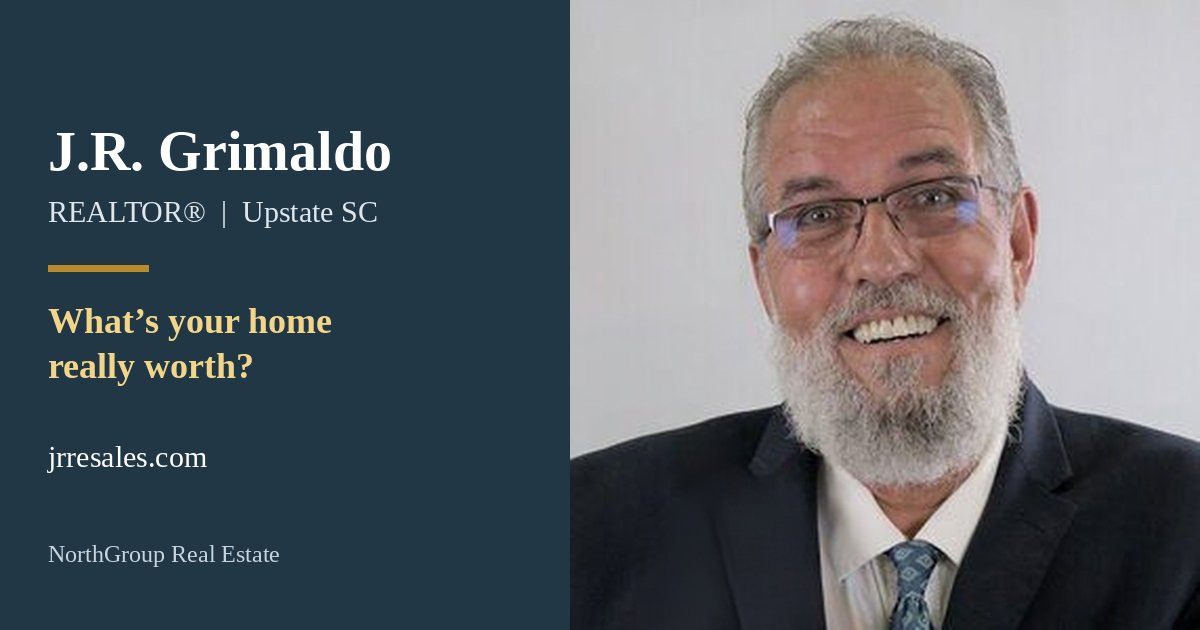
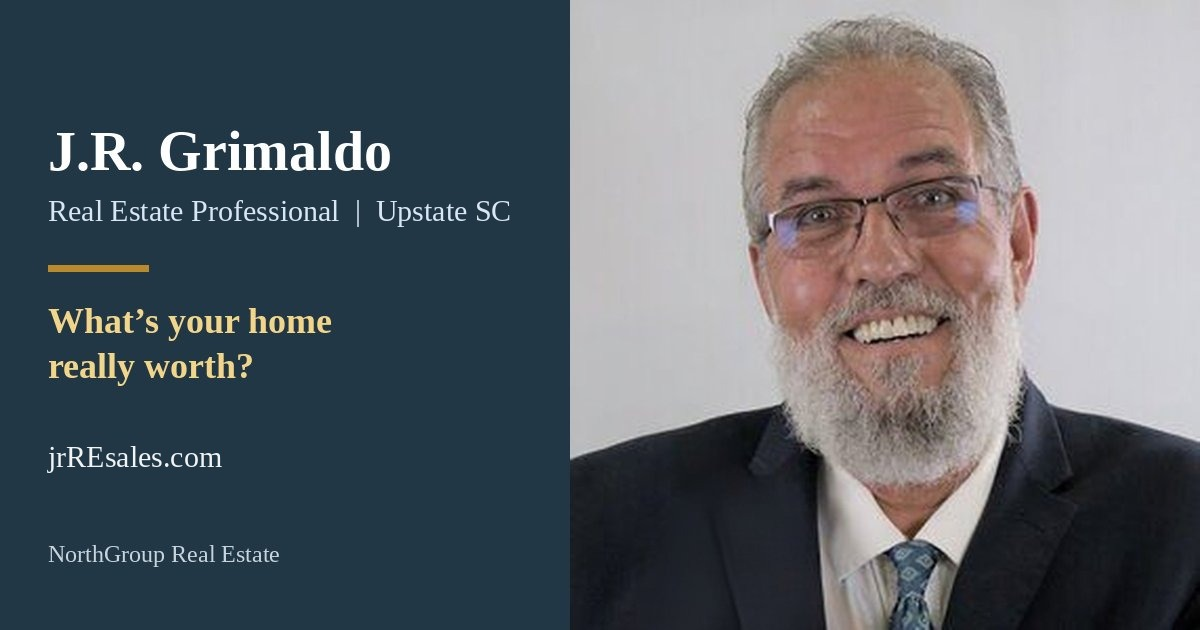
Real Estate Professional everywhere: fallback titles/descriptions in source, default share picture text; share.jpg gets a version tag
Claude-Session: https://claude.ai/code/session_016fS7kRdrNy9Bdoyz7H8ZFx

Changed region(s): [[0.0308, 0.3016, 0.4317, 0.3619], [0.0617, 0.6937, 0.185, 0.754]]

diff --git a/docs/free-book-expired.html b/docs/free-book-expired.html
@@ -9,7 +9,7 @@
 <meta property="og:site_name" content="J.R. Grimaldo, Real Estate Professional">
 <meta property="og:title" content="Free Book for Owners Whose Home Didn&#x27;t Sell – J.R. Grimaldo">
 <meta property="og:description" content="Free book &quot;Expired!?&quot; for owners whose home was listed and didn&#x27;t sell: why it happens and what to change. Mailed to you by J.R. Grimaldo, Landrum, SC.">
-<meta property="og:image" content="https://jrresales.com/assets/share.jpg">
+<meta property="og:image" content="https://jrresales.com/assets/share.jpg?v=f7b0df62">
 <meta property="og:image:width" content="1200"><meta property="og:image:height" content="630">
 <meta property="og:url" content="https://jrresales.com/free-book-expired.html">
 <link rel="canonical" href="https://jrresales.com/free-book-expired.html">

diff --git a/docs/es/free-book-expired.html b/docs/es/free-book-expired.html
@@ -9,7 +9,7 @@
 <meta property="og:site_name" content="J.R. Grimaldo, Real Estate Professional">
 <meta property="og:title" content="Libro gratis si su casa no se vendió – J.R. Grimaldo">
 <meta property="og:description" content="Libro gratis &quot;Expired!?&quot; (en inglés) para dueños cuya casa no se vendió: por qué pasa y qué cambiar. Se lo envía por correo J.R. Grimaldo, Landrum, SC.">
-<meta property="og:image" content="https://jrresales.com/assets/share.jpg">
+<meta property="og:image" content="https://jrresales.com/assets/share.jpg?v=f7b0df62">
 <meta property="og:image:width" content="1200"><meta property="og:image:height" content="630">
 <meta property="og:url" content="https://jrresales.com/es/free-book-expired.html">
 <link rel="canonical" href="https://jrresales.com/es/free-book-expired.html">

diff --git a/docs/es/free-book-sell-fast.html b/docs/es/free-book-sell-fast.html
@@ -9,7 +9,7 @@
 <meta property="og:site_name" content="J.R. Grimaldo, Real Estate Professional">
 <meta property="og:title" content="Libro gratis: How to Sell Homes Fast for Top Dollar">
 <meta property="og:description" content="Libro gratis (en inglés) para dueños que piensan vender: cómo preparar su casa, encontrar compradores y negociar. Se lo envía por correo J.R. Grimaldo.">
-<meta property="og:image" content="https://jrresales.com/assets/share.jpg">
+<meta property="og:image" content="https://jrresales.com/assets/share.jpg?v=f7b0df62">
 <meta property="og:image:width" content="1200"><meta property="og:image:height" content="630">
 <meta property="og:url" content="https://jrresales.com/es/free-book-sell-fast.html">
 <link rel="canonical" href="https://jrresales.com/es/free-book-sell-fast.html">

diff --git a/docs/es/free-books.html b/docs/es/free-books.html
@@ -9,7 +9,7 @@
 <meta property="og:site_name" content="J.R. Grimaldo, Real Estate Professional">
 <meta property="og:title" content="Guías y libros gratis para vender su casa – J.R. Grimaldo">
 <meta property="og:description" content="Guías y libros gratis para vender su casa, de J.R. Grimaldo en Landrum, SC: una guía de 8 páginas en español por correo electrónico y dos libros impresos.">
-<meta property="og:image" content="https://jrresales.com/assets/share.jpg">
+<meta property="og:image" content="https://jrresales.com/assets/share.jpg?v=f7b0df62">
 <meta property="og:image:width" content="1200"><meta property="og:image:height" content="630">
 <meta property="og:url" content="https://jrresales.com/es/free-books.html">
 <link rel="canonical" href="https://jrresales.com/es/free-books.html">

diff --git a/docs/boiling-springs.html b/docs/boiling-springs.html
@@ -9,7 +9,7 @@
 <meta property="og:site_name" content="J.R. Grimaldo, Real Estate Professional">
 <meta property="og:title" content="Sell Your Home in Boiling Springs, SC – J.R. Grimaldo">
 <meta property="og:description" content="J.R. Grimaldo has helped folks buy and sell homes in Boiling Springs, SC. Get a free written home valuation, prepared by J.R. himself, within one business day.">
-<meta property="og:image" content="https://jrresales.com/assets/share.jpg">
+<meta property="og:image" content="https://jrresales.com/assets/share.jpg?v=f7b0df62">
 <meta property="og:image:width" content="1200"><meta property="og:image:height" content="630">
 <meta property="og:url" content="https://jrresales.com/boiling-springs.html">
 <link rel="canonical" href="https://jrresales.com/boiling-springs.html">

diff --git a/docs/post-your-home.html b/docs/post-your-home.html
@@ -9,7 +9,7 @@
 <meta property="og:site_name" content="J.R. Grimaldo, Real Estate Professional">
 <meta property="og:title" content="Selling on Your Own? Post Your Home Free – J.R. Grimaldo">
 <meta property="og:description" content="Selling your home yourself in the Upstate SC? J.R. Grimaldo will post it free on jrREsales.com, with your photos, price and phone number. Buyers contact you.">
-<meta property="og:image" content="https://jrresales.com/assets/share.jpg">
+<meta property="og:image" content="https://jrresales.com/assets/share.jpg?v=f7b0df62">
 <meta property="og:image:width" content="1200"><meta property="og:image:height" content="630">
 <meta property="og:url" content="https://jrresales.com/post-your-home.html">
 <link rel="canonical" href="https://jrresales.com/post-your-home.html">

diff --git a/docs/es/home-value.html b/docs/es/home-value.html
@@ -9,7 +9,7 @@
 <meta property="og:site_name" content="J.R. Grimaldo, Real Estate Professional">
 <meta property="og:title" content="¿Cuánto vale mi casa? Valuación gratis – J.R. Grimaldo">
 <meta property="og:description" content="¿Cuánto vale su casa en el Upstate? J.R. Grimaldo le prepara una valuación gratis por escrito, con las ventas recientes cerca de usted, en un día hábil.">
-<meta property="og:image" content="https://jrresales.com/assets/share.jpg">
+<meta property="og:image" content="https://jrresales.com/assets/share.jpg?v=f7b0df62">
 <meta property="og:image:width" content="1200"><meta property="og:image:height" content="630">
 <meta property="og:url" content="https://jrresales.com/es/home-value.html">
 <link rel="canonical" href="https://jrresales.com/es/home-value.html">

diff --git a/docs/travelers-rest.html b/docs/travelers-rest.html
@@ -9,7 +9,7 @@
 <meta property="og:site_name" content="J.R. Grimaldo, Real Estate Professional">
 <meta property="og:title" content="Sell Your Home in Travelers Rest, SC – J.R. Grimaldo">
 <meta property="og:description" content="J.R. Grimaldo has helped folks buy and sell homes in Travelers Rest, SC. Get a free written home valuation, prepared by J.R. himself, within one business day.">
-<meta property="og:image" content="https://jrresales.com/assets/share.jpg">
+<meta property="og:image" content="https://jrresales.com/assets/share.jpg?v=f7b0df62">
 <meta property="og:image:width" content="1200"><meta property="og:image:height" content="630">
 <meta property="og:url" content="https://jrresales.com/travelers-rest.html">
 <link rel="canonical" href="https://jrresales.com/travelers-rest.html">

diff --git a/docs/free-books.html b/docs/free-books.html
@@ -9,7 +9,7 @@
 <meta property="og:site_name" content="J.R. Grimaldo, Real Estate Professional">
 <meta property="og:title" content="Free Guides &amp; Books on Selling Your Home – J.R. Grimaldo">
 <meta property="og:description" content="Free guides and books on selling your home from J.R. Grimaldo in Landrum, SC: an 8-page Seller&#x27;s Guide by email and two printed books by mail. No cost.">
-<meta property="og:image" content="https://jrresales.com/assets/share.jpg">
+<meta property="og:image" content="https://jrresales.com/assets/share.jpg?v=f7b0df62">
 <meta property="og:image:width" content="1200"><meta property="og:image:height" content="630">
 <meta property="og:url" content="https://jrresales.com/free-books.html">
 <link rel="canonical" href="https://jrresales.com/free-books.html">

diff --git a/docs/home-value.html b/docs/home-value.html
@@ -9,7 +9,7 @@
 <meta property="og:site_name" content="J.R. Grimaldo, Real Estate Professional">
 <meta property="og:title" content="What&#x27;s My Home Worth? Free Home Valuation – J.R. Grimaldo">
 <meta property="og:description" content="Find out what your Upstate SC home is worth. J.R. Grimaldo prepares a free written valuation himself, from recent sales near you, within one business day.">
-<meta property="og:image" content="https://jrresales.com/assets/share.jpg">
+<meta property="og:image" content="https://jrresales.com/assets/share.jpg?v=f7b0df62">
 <meta property="og:image:width" content="1200"><meta property="og:image:height" content="630">
 <meta property="og:url" content="https://jrresales.com/home-value.html">
 <link rel="canonical" href="https://jrresales.com/home-value.html">

diff --git a/docs/free-book-sell-fast.html b/docs/free-book-sell-fast.html
@@ -9,7 +9,7 @@
 <meta property="og:site_name" content="J.R. Grimaldo, Real Estate Professional">
 <meta property="og:title" content="Free Book: How to Sell Homes Fast for Top Dollar">
 <meta property="og:description" content="For homeowners thinking about selling: how to get your home ready, find buyers, and negotiate the best price. Free, mailed to you by J.R. Grimaldo.">
-<meta property="og:image" content="https://jrresales.com/assets/share.jpg">
+<meta property="og:image" content="https://jrresales.com/assets/share.jpg?v=f7b0df62">
 <meta property="og:image:width" content="1200"><meta property="og:image:height" content="630">
 <meta property="og:url" content="https://jrresales.com/free-book-sell-fast.html">
 <link rel="canonical" href="https://jrresales.com/free-book-sell-fast.html">

diff --git a/docs/fountain-inn.html b/docs/fountain-inn.html
@@ -9,7 +9,7 @@
 <meta property="og:site_name" content="J.R. Grimaldo, Real Estate Professional">
 <meta property="og:title" content="Sell Your Home in Fountain Inn, SC – J.R. Grimaldo">
 <meta property="og:description" content="J.R. Grimaldo has helped folks buy and sell homes in Fountain Inn, SC. Get a free written home valuation, prepared by J.R. himself, within one business day.">
-<meta property="og:image" content="https://jrresales.com/assets/share.jpg">
+<meta property="og:image" content="https://jrresales.com/assets/share.jpg?v=f7b0df62">
 <meta property="og:image:width" content="1200"><meta property="og:image:height" content="630">
 <meta property="og:url" content="https://jrresales.com/fountain-inn.html">
 <link rel="canonical" href="https://jrresales.com/fountain-inn.html">
